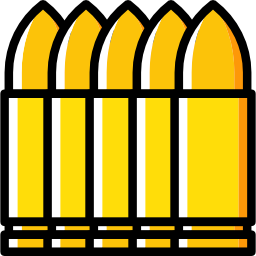
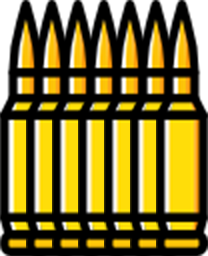
cambio de sprite de boost de balas

diff --git a/src/gameObjects/player.js b/src/gameObjects/player.js
@@ -23,7 +23,7 @@ class Player extends Phaser.GameObjects.Sprite{
         //Weapon
         this.weapon = scene.add.image(this.x, this.y+2, "rifle");
         this.weapon.setOrigin(0.1, 0)
-        this.weapon.setScale(0.22,0.22)
+        this.weapon.setScale(0.2,0.2)
         this.weapon.setDepth(1)
     }
     

diff --git a/src/main.js b/src/main.js
@@ -22,7 +22,7 @@ const config = {
     physics: {
         default: "arcade",
         "arcade": {
-            debug: true,
+            debug: false,
             gravity: {
                 y: 1800
             }
